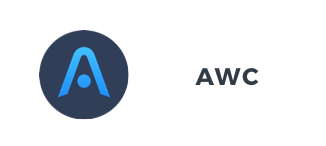
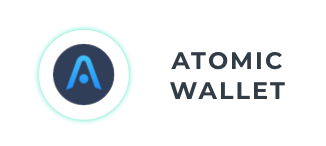
update

Changed region(s): [[0.092, 0.1644, 0.4294, 0.8493], [0.5215, 0.3562, 0.8896, 0.6849]]

diff --git a/public/index.html b/public/index.html
@@ -309,38 +309,113 @@
                           </div>
                         </div>
                         <div class="row pt-5vh">
-                          <div class="col-lg-3 col-md-6">
-                                <img src="./assets/img/partner-bolt.png" class="img-mask" width="200" height="auto">
-                                <br><br>
-                                <h4 class="team-name"><a href="https://www.bolt.global" target="_blank" style="color:rgba(51,255,153,1)"> BOLT Global </a></h4>
-                                <p style="font-weight: 200"> Bolt is building an ecosystem of users, partners, and content creators, in order to bring best-in-class digital services to emerging markets. </p>
-                                <h6><a href="https://medium.com/thorchain/bolt-joins-bepswap-as-launch-partner-181441b27dca" target="_blank" style="color:rgba(51,255,255,255)">Learn More</a></h6>
-
-                          </div>
-                          <div class="col-lg-3 col-md-6">
-
-                            <img src="./assets/img/partner-ankr.png" class="img-mask" width="200" height="auto">
+                          <div class="col-lg-4 col-md-6">
+                            <a href="https://www.bolt.global" target="_blank">
+                              <img src="./assets/img/partner-bolt.png" class="img-mask card-bepswap" width="200" height="auto">
+                            </a>
                             <br><br>
-                            <h4 class="team-name"><a href="https://www.ankr.com" target="_blank" style="color:rgba(51,255,153,1)"> ANKR Network </a></h4>
-                            <p style="font-weight: 200"> Ankr is a distributed computing platform that aims to leverage idle computing resources in data centers and edge devices.</p>
-                            <h6><a href="https://medium.com/thorchain/ankr-joins-bepswap-as-launch-partner-f24094a73b17" target="_blank" style="color:rgba(51,255,255,255)">Learn More</a></h6>
+                            <h4> BOLT Global</h4>
+                            <p style="font-weight: 200"> Bolt is building an ecosystem of users, partners, and content creators, in
+                              order to bring best-in-class digital services to emerging markets. </p>
+                            <h6><a href="https://medium.com/thorchain/bolt-joins-bepswap-as-launch-partner-181441b27dca" target="_blank"
+                                style="color:rgba(51,255,255,255)">Learn More</a></h6>
+                
                           </div>
-                          <div class="col-lg-3 col-md-6">
-                            <img src="./assets/img/partner-ftm.png" class="img-mask" width="200" height="auto">
+                          <div class="col-lg-4 col-md-6">
+                            <a href="https://www.ankr.com" target="_blank">
+                              <img src="./assets/img/partner-ankr.png" class="img-mask card-bepswap" width="200" height="auto">
+                            </a>
                             <br><br>
-                            <h4 class="team-name"><a href="https://www.fantom.foundation" target="_blank" style="color:rgba(51,255,153,1)"> Fantom Foundation </a></h4>
-                            <p style="font-weight: 200"> Fantom is a DAG-based distributed ledger combined with a high-performance virtual machine and safe, secure smart contract execution. </p>
-                            <h6><a href="https://medium.com/thorchain/fantom-joins-bepswap-as-launch-partner-da37af8d518" target="_blank" style="color:rgba(51,255,255,255)">Learn More</a></h6>
+                            <h4> ANKR Network</h4>
+                            <p style="font-weight: 200"> Ankr is a distributed computing platform that aims to leverage idle computing
+                              resources in data centers and edge devices.</p>
+                            <h6><a href="https://medium.com/thorchain/ankr-joins-bepswap-as-launch-partner-f24094a73b17" target="_blank"
+                                style="color:rgba(51,255,255,255)">Learn More</a></h6>
                           </div>
-
-                            <div class="col-lg-3 col-md-6">
-                              <img src="./assets/img/partner-awc.png" class="img-mask" width="200" height="auto">
-                              <br><br>
-                              <h4 class="team-name"><a href="https://www.atomicwallet.io" target="_blank" style="color:rgba(51,255,153,1)"> Atomic Wallet </a></h4>
-                              <p style="font-weight: 200"> Manage your Bitcoin, Ethereum, XRP, Litecoin, XLM and over 300 other coins and tokens in a single interface. </p>
-                              <h6><a href="https://medium.com/thorchain/atomic-wallet-joins-bepswap-as-launch-partner-ac39ddc7526b" target="_blank" style="color:rgba(51,255,255,255)">Learn More</a></h6>
+                          <div class="col-lg-4 col-md-6">
+                            <a href="https://www.fantom.foundation" target="_blank">
+                              <img src="./assets/img/partner-ftm.png" class="img-mask card-bepswap" width="200" height="auto">
+                            </a>
+                            <br><br>
+                            <h4> Fantom Foundation</h4>
+                            <p style="font-weight: 200"> Fantom is a DAG-based distributed ledger combined with a high-performance
+                              virtual machine and safe, secure smart contract execution. </p>
+                            <h6><a href="https://medium.com/thorchain/fantom-joins-bepswap-as-launch-partner-da37af8d518"
+                                target="_blank" style="color:rgba(51,255,255,255)">Learn More</a></h6>
                           </div>
                         </div>
+
+                        <div class="row pt-5vh">
+                          <div class="col-lg-4 col-md-6">
+                            <a href="https://www.atomicwallet.io" target="_blank">
+                              <img src="./assets/img/partner-awc.png" class="img-mask card-bepswap" width="200" height="auto">
+                            </a>
+                            <br><br>
+                            <h4> Atomic Wallet</h4>
+                            <p style="font-weight: 200"> Manage your Bitcoin, Ethereum, XRP, Litecoin, XLM and over 300 other coins and
+                              tokens in a single interface. </p>
+                            <h6><a href="https://medium.com/thorchain/atomic-wallet-joins-bepswap-as-launch-partner-ac39ddc7526b"
+                                target="_blank" style="color:rgba(51,255,255,255)">Learn More</a></h6>
+                          </div>
+                          <div class="col-lg-4 col-md-6">
+                            <a href="https://www.tomochain.com" target="_blank" style="color:rgba(51,255,153,1)">
+                              <img src="./assets/img/partner-tomo.png" class="img-mask card-bepswap" width="200" height="auto">
+                            </a>
+                            <br><br>
+                            <h4>TomoChain</h4>
+                            <p style="font-weight: 200">TomoChain is built on a performance layer that achieves high transaction speeds
+                              without compromising decentralization. </p>
+                            <h6><a href="https://medium.com/thorchain/tomochain-joins-bepswap-as-launch-partner-bbc431956d3f"
+                                target="_blank" style="color:rgba(51,255,255,255)">Learn More</a></h6>
+                          </div>
+                          <div class="col-lg-4 col-md-6">
+                            <a href="https://www.lition.io/" target="_blank" style="color:rgba(51,255,153,1)">
+                              <img src="./assets/img/partner-lit.png" class="img-mask card-bepswap" width="200" height="auto">
+                            </a>
+                            <br><br>
+                            <h4>Lition</h4>
+                            <p style="font-weight: 200">Lition is developing the advanced scalable public-private blockchain with deletable data features, made for commercial products.
+                            </p>
+                            <h6><a href="https://medium.com/thorchain/lition-joins-bepswap-as-launch-partner-ef4e4e7a6981"
+                                target="_blank" style="color:rgba(51,255,255,255)">Learn More</a></h6>
+                          </div>
+                        </div>
+
+                        <div class="row pt-5vh">
+                          <div class="col-lg-4 col-md-6">
+                            <a href="https://matic.network" target="_blank">
+                              <img src="./assets/img/partner-matic.png" class="img-mask card-bepswap" width="200" height="auto">
+                            </a>
+                            <br><br>
+                            <h4> Matic Network </h4>
+                            <p style="font-weight: 200"> Matic Network brings massive scale to Ethereum using an adapted version of Plasma with PoS based side chains. </p>
+                            <h6><a href="https://medium.com/thorchain/matic-joins-bepswap-as-launch-partner-44df60c2b91d"
+                                target="_blank" style="color:rgba(51,255,255,255)">Learn More</a></h6>
+                          </div>
+                          <div class="col-lg-4 col-md-6">
+                            <a href="https://harmony.one" target="_blank" style="color:rgba(51,255,153,1)">
+                              <img src="./assets/img/partner-one.png" class="img-mask card-bepswap" width="200" height="auto">
+                            </a>
+                            <br><br>
+                            <h4>Harmony</h4>
+                            <p style="font-weight: 200">Harmony is a fast and secure blockchain with key innovations in state sharding and peer-to-peer networking.</p>
+                            <h6><a href="https://medium.com/thorchain/harmony-one-joins-as-bepswap-launch-partner-e433f6285770"
+                                target="_blank" style="color:rgba(51,255,255,255)">Learn More</a></h6>
+                          </div>
+                          <div class="col-lg-4 col-md-6">
+                            <a href="https://www.fusion.org/" target="_blank" style="color:rgba(51,255,153,1)">
+                              <img src="./assets/img/partner-fsn.png" class="img-mask card-bepswap" width="200" height="auto">
+                            </a>
+                            <br><br>
+                            <h4>Fusion</h4>
+                            <p style="font-weight: 200">Fusion is a connected ecosystem for financial transactions, powering the next wave of financial innovation on the blockchain. 
+                            </p>
+                            <h6><a href="https://medium.com/thorchain/fusion-fsn-joins-as-bepswap-launch-partner-eb9f37559ae7"
+                                target="_blank" style="color:rgba(51,255,255,255)">Learn More</a></h6>
+                          </div>
+                        </div>
+
+
                       </section>
 
 
